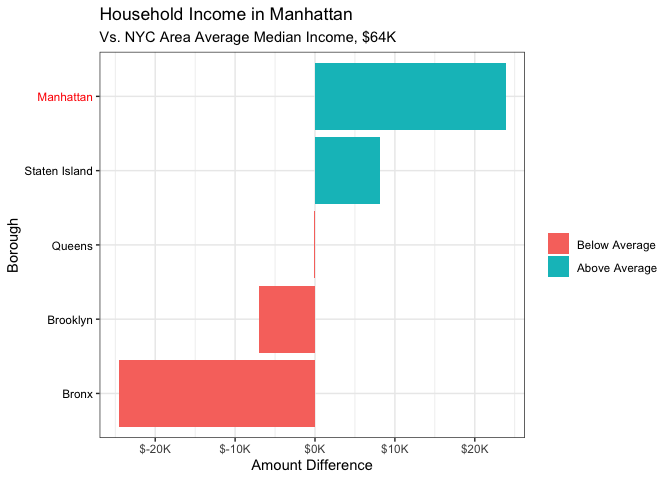
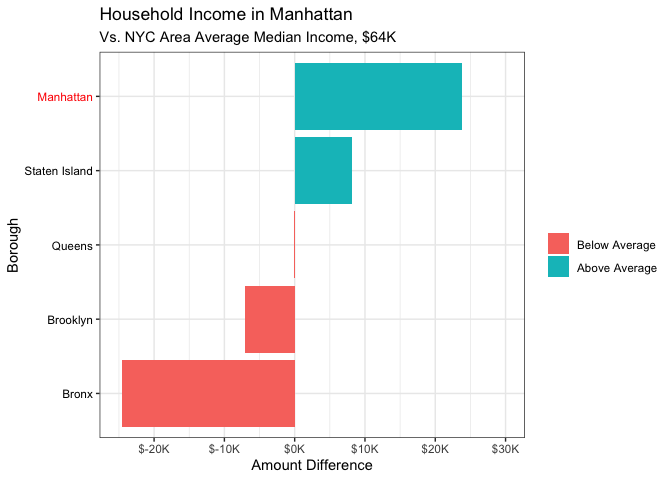
standardized NYC axis scales

diff --git a/2. Graph Creation/New York City/NYC-Final-Graphics.md b/2. Graph Creation/New York City/NYC-Final-Graphics.md
@@ -335,7 +335,7 @@ ggplot(income_nyc, aes(x = reorder(county_code, deviation), y = deviation,
   )+
   theme_bw()+
   theme(axis.text.y = element_text(colour = i.color)) +
-  scale_y_continuous(labels = function(x){paste0("$", x/1000, "K")}) 
+  scale_y_continuous(labels = function(x){paste0("$", x/1000, "K")}, limits = c(-25000,30000)) 
 ```
 
     ## Warning: Vectorized input to `element_text()` is not officially supported.
@@ -359,7 +359,8 @@ df_nyc_2015 %>%
   labs(title = "2015 Manhattan 3rd Grades Reading and Math Scores", 
        subtitle = "Vs. National Average", 
        x = "Borough", 
-       y = "3rd Grades Reading & Math scores") 
+       y = "3rd Grades Reading & Math scores") +
+  scale_y_continuous(limits=c(0,1000))
 ```
 
 ![](NYC-Final-Graphics_files/figure-gfm/unnamed-chunk-9-1.png)<!-- -->
